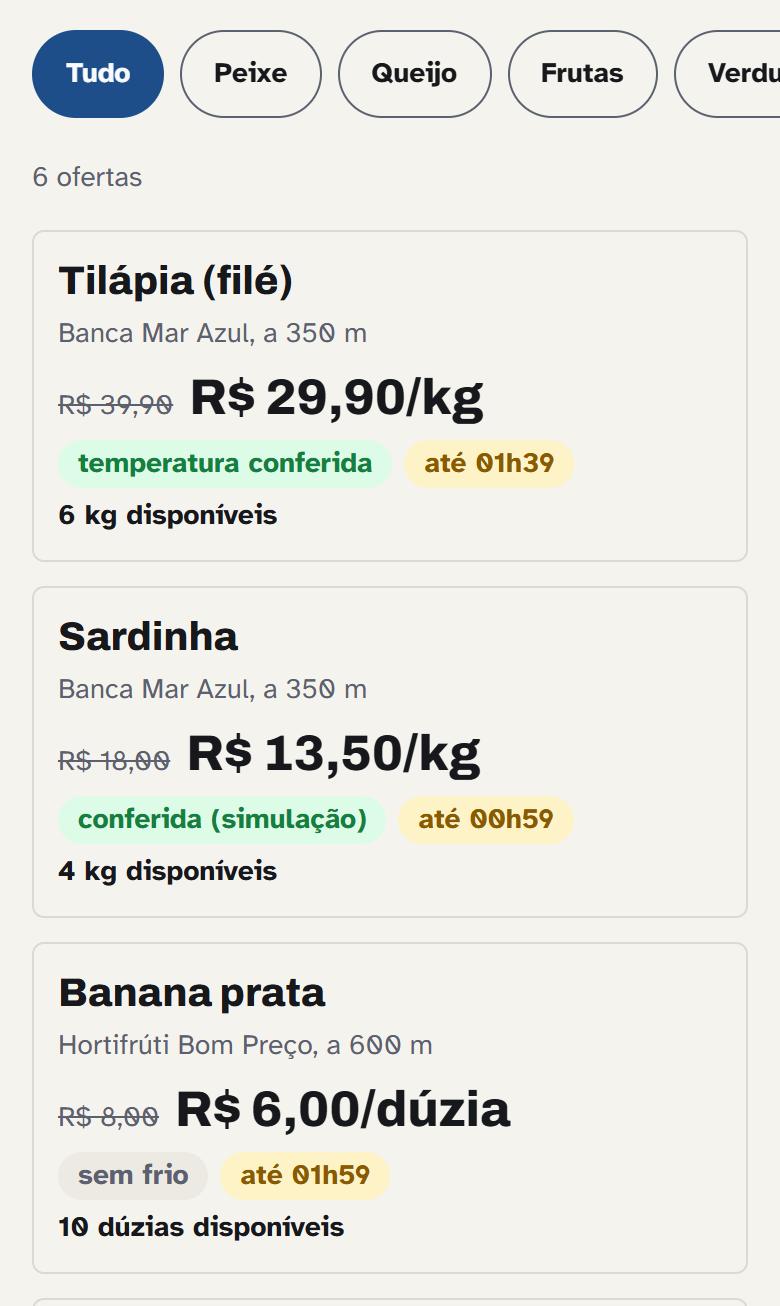
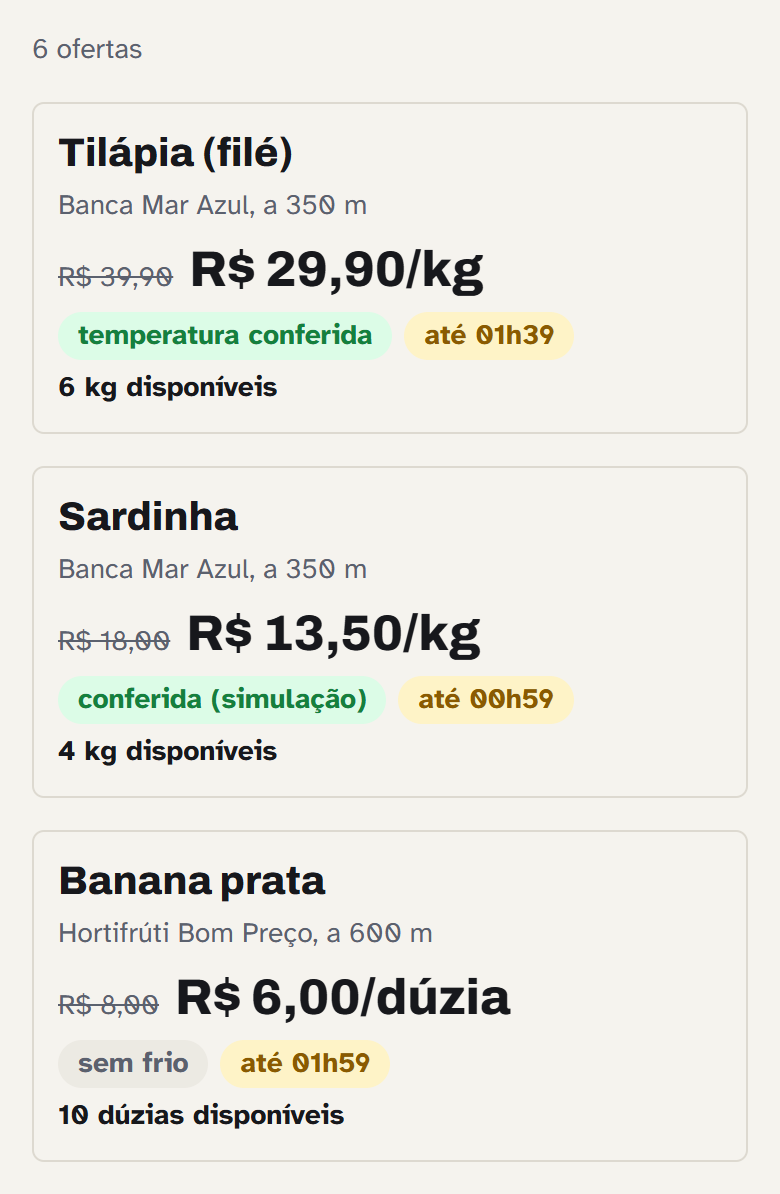
fix: tira da landing os filtros cortados na tela do freguês

Changed region(s): [[0.0308, 0.0, 1.0, 0.6817], [0.0615, 0.7127, 0.6769, 0.9606], [0.0308, 0.6817, 0.0615, 0.7127]]

diff --git a/src/components/landing/TrocaDePerfil.jsx b/src/components/landing/TrocaDePerfil.jsx
@@ -23,7 +23,7 @@ const PERFIS = [
     titulo: 'Reserve e retire na banca',
     texto: 'Xepa perto de você, com o selo de temperatura conferida e a hora de retirar.',
     tela: '/telas/xepa.png',
-    altura: 1306,
+    altura: 1194,
     acao: 'Ver a xepa de hoje',
     href: '/xepa',
   },
